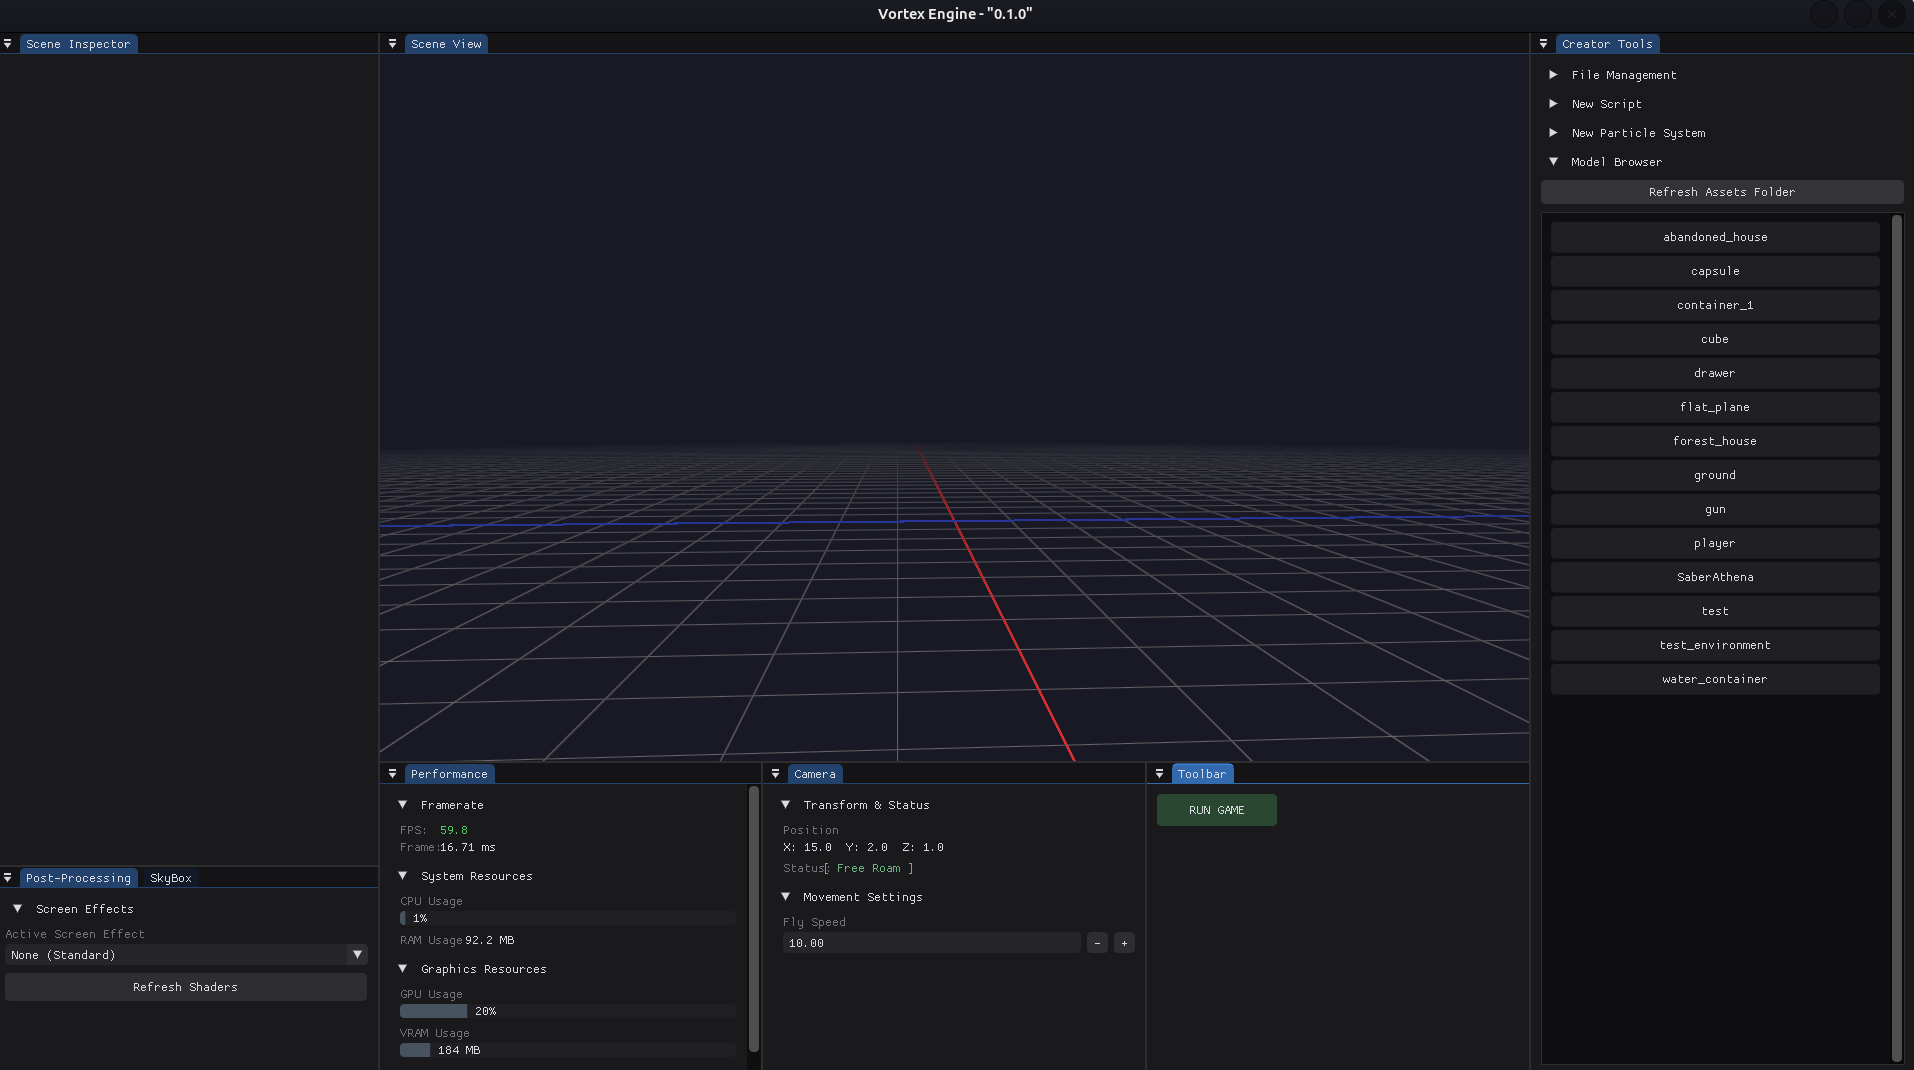
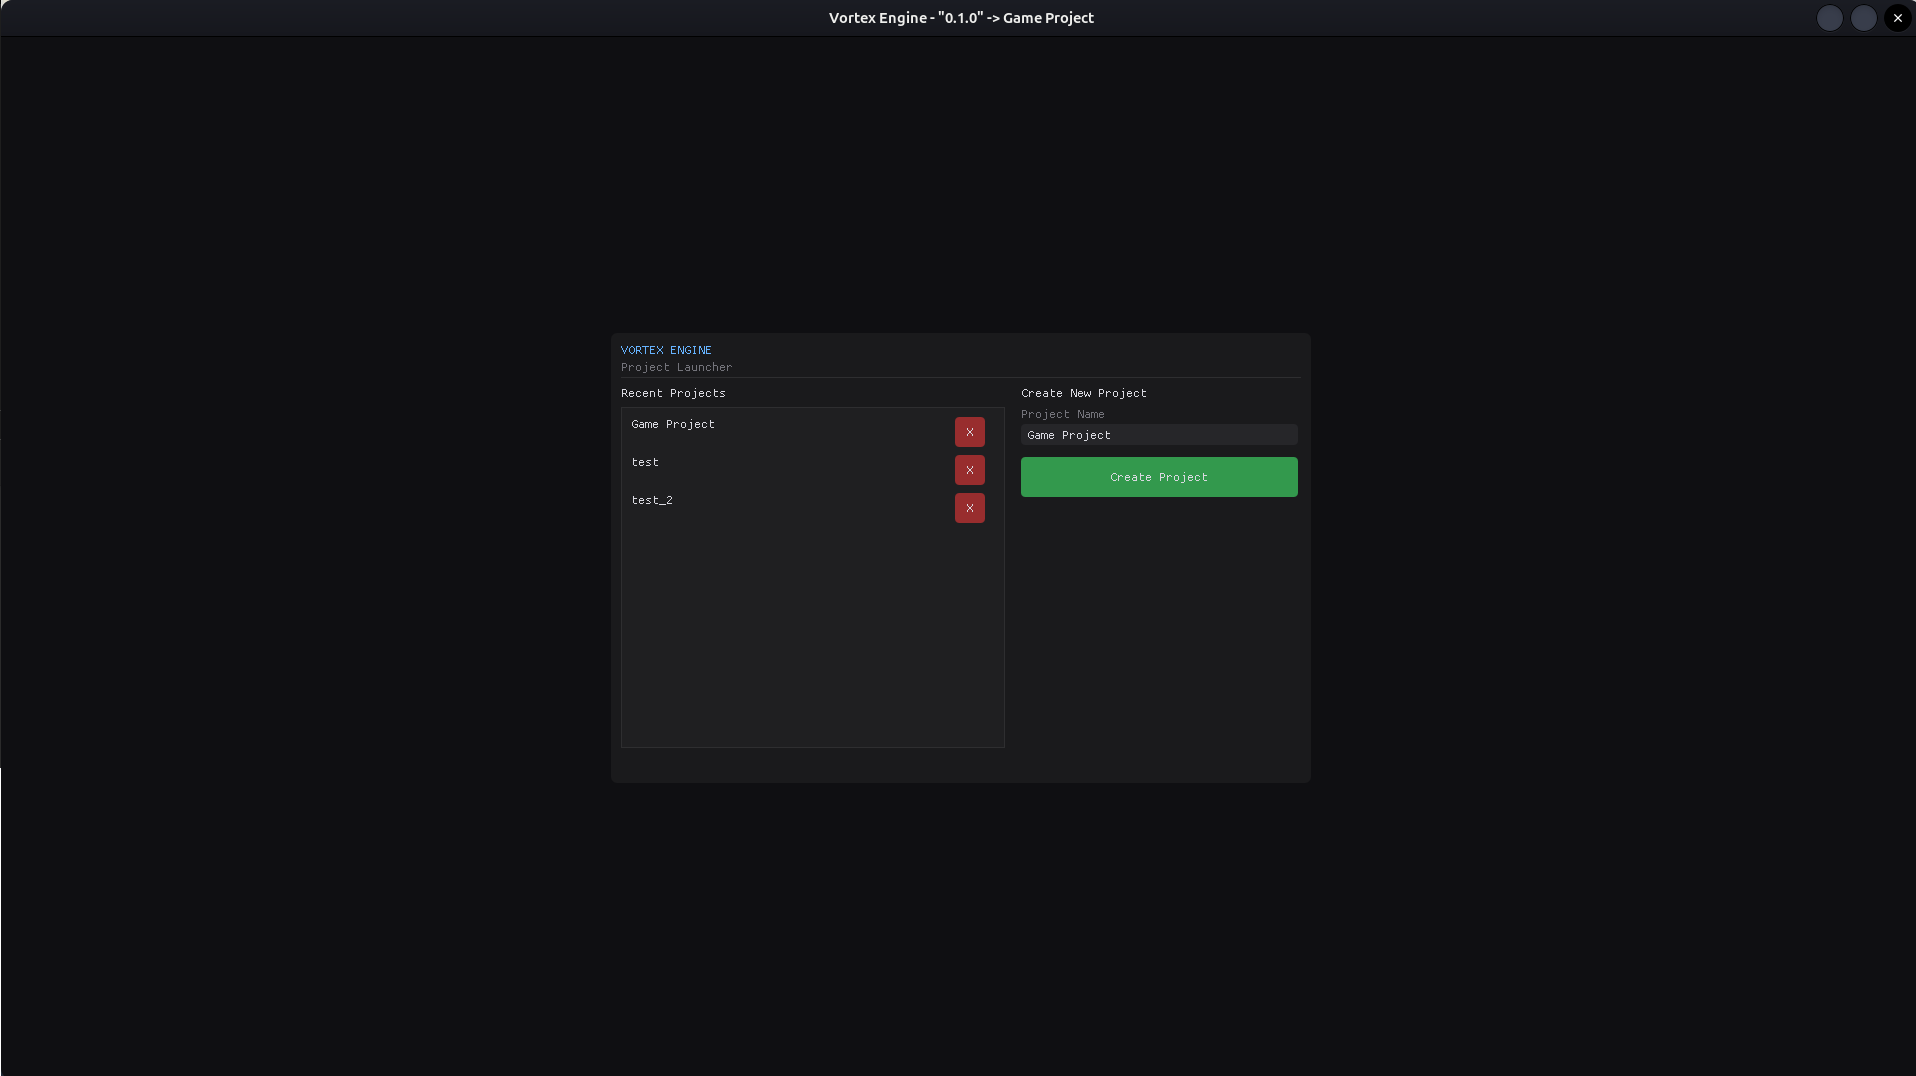
updated readme.md

diff --git a/README.md b/README.md
@@ -6,6 +6,10 @@
 </p>
 
 <p align="center">
+  <img src="screenshots/vortex_engine_screenshot_1.png" width="800" alt="Vortex Engine Editor Interface">
+</p>
+
+<p align="center">
   <img src="screenshots/vortex_engine_screenshot_2.png" width="800" alt="Vortex Engine Editor Interface">
 </p>
 
@@ -159,9 +163,21 @@ When you launch the engine, you will start in Editor Mode attached to the defaul
 
 
 <p align="center">
-  <img src="screenshots/vortex_engine_screenshot_1.png" width="800" alt="Vortex Engine Editor Interface">
+  <img src="screenshots/vortex_engine_screenshot_3.png" width="800" alt="Vortex Engine Editor Interface">
 </p>
 
 <p align="center">
-  <img src="screenshots/vortex_engine_screenshot_3.png" width="800" alt="Vortex Engine Editor Interface">
+  <img src="screenshots/vortex_engine_screenshot_4.png" width="800" alt="Vortex Engine Editor Interface">
+</p>
+
+<p align="center">
+  <img src="screenshots/vortex_engine_screenshot_5.png" width="800" alt="Vortex Engine Editor Interface">
+</p>
+
+<p align="center">
+  <img src="screenshots/vortex_engine_screenshot_6.png" width="800" alt="Vortex Engine Editor Interface">
+</p>
+
+<p align="center">
+  <img src="screenshots/vortex_engine_gif_1.gif" width="800" alt="Vortex Engine Demo">
 </p>
